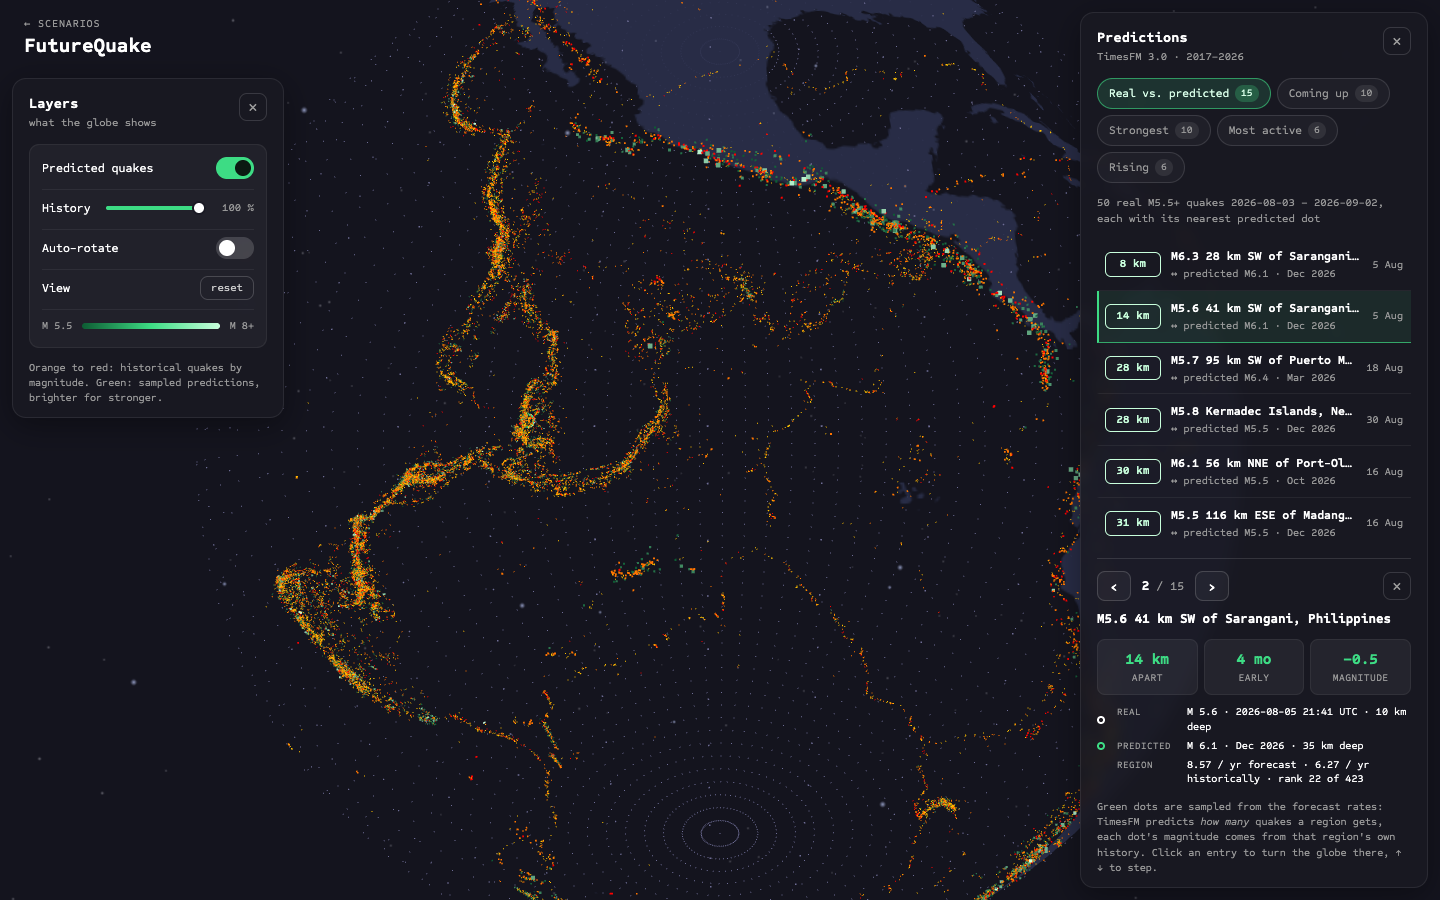
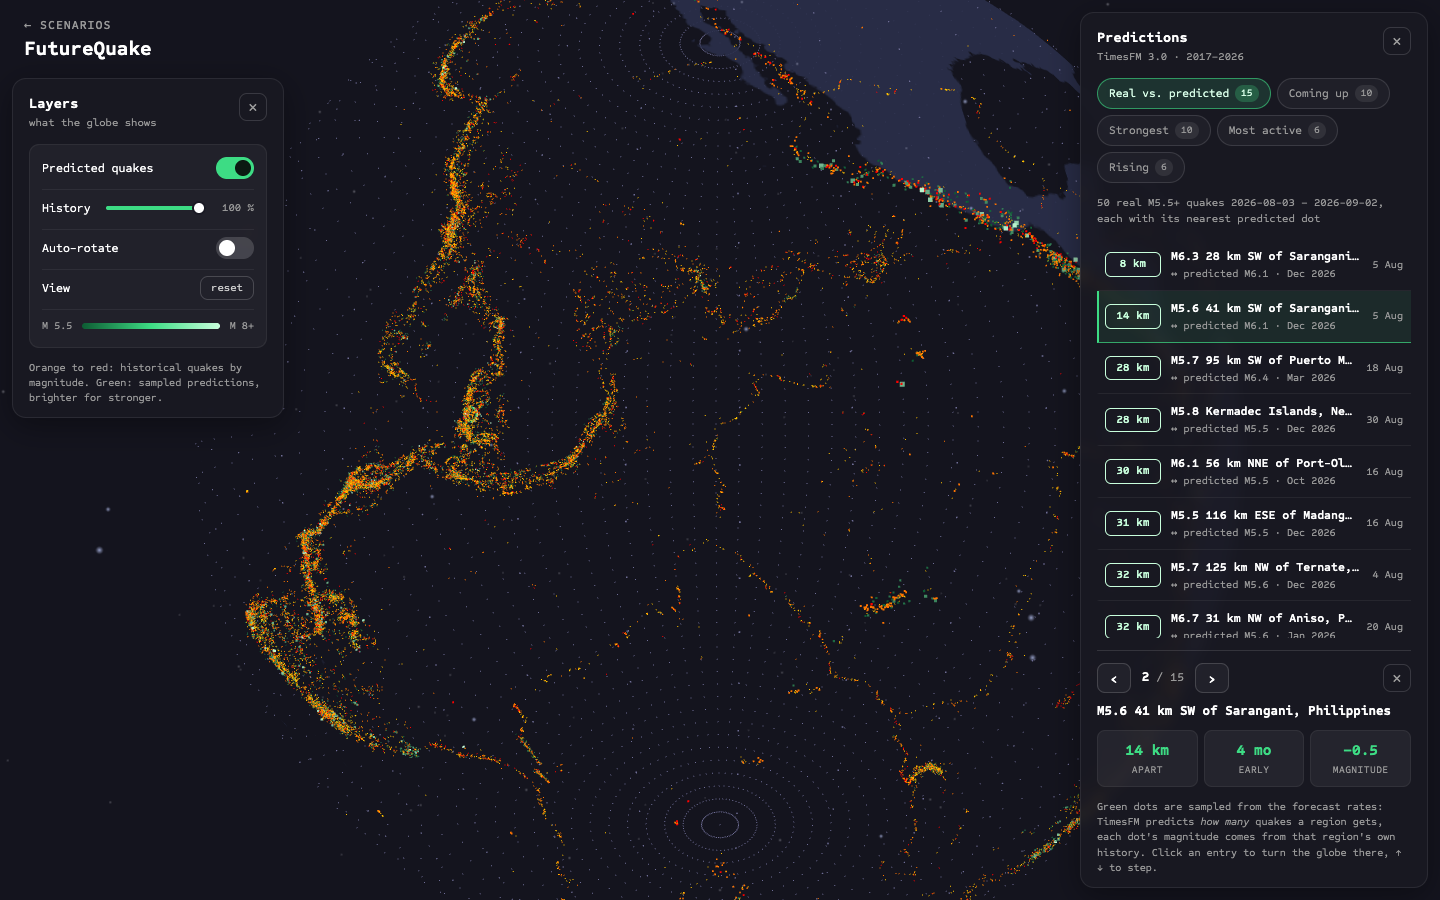
globe: detail card keeps only the three stat chips

diff --git a/src/erdbeben/pages/Globe.tsx b/src/erdbeben/pages/Globe.tsx
@@ -864,27 +864,6 @@ export default function Globe() {
                       <span>magnitude</span>
                     </div>
                   </div>
-                  <div className="pairLines">
-                    <div>
-                      <span className="ring white" />
-                      <span className="k">real</span>
-                      <span className="v">{selectedItem.facts[0]?.value}</span>
-                    </div>
-                    <div>
-                      <span className="ring green" />
-                      <span className="k">predicted</span>
-                      <span className="v">{selectedItem.facts[1]?.value}</span>
-                    </div>
-                    {selectedItem.facts
-                      .filter((f) => /region/i.test(f.label))
-                      .map((f) => (
-                        <div key={f.label}>
-                          <span className="ring none" />
-                          <span className="k">region</span>
-                          <span className="v">{f.value}</span>
-                        </div>
-                      ))}
-                  </div>
                 </>
               ) : (
                 <dl className="facts">
